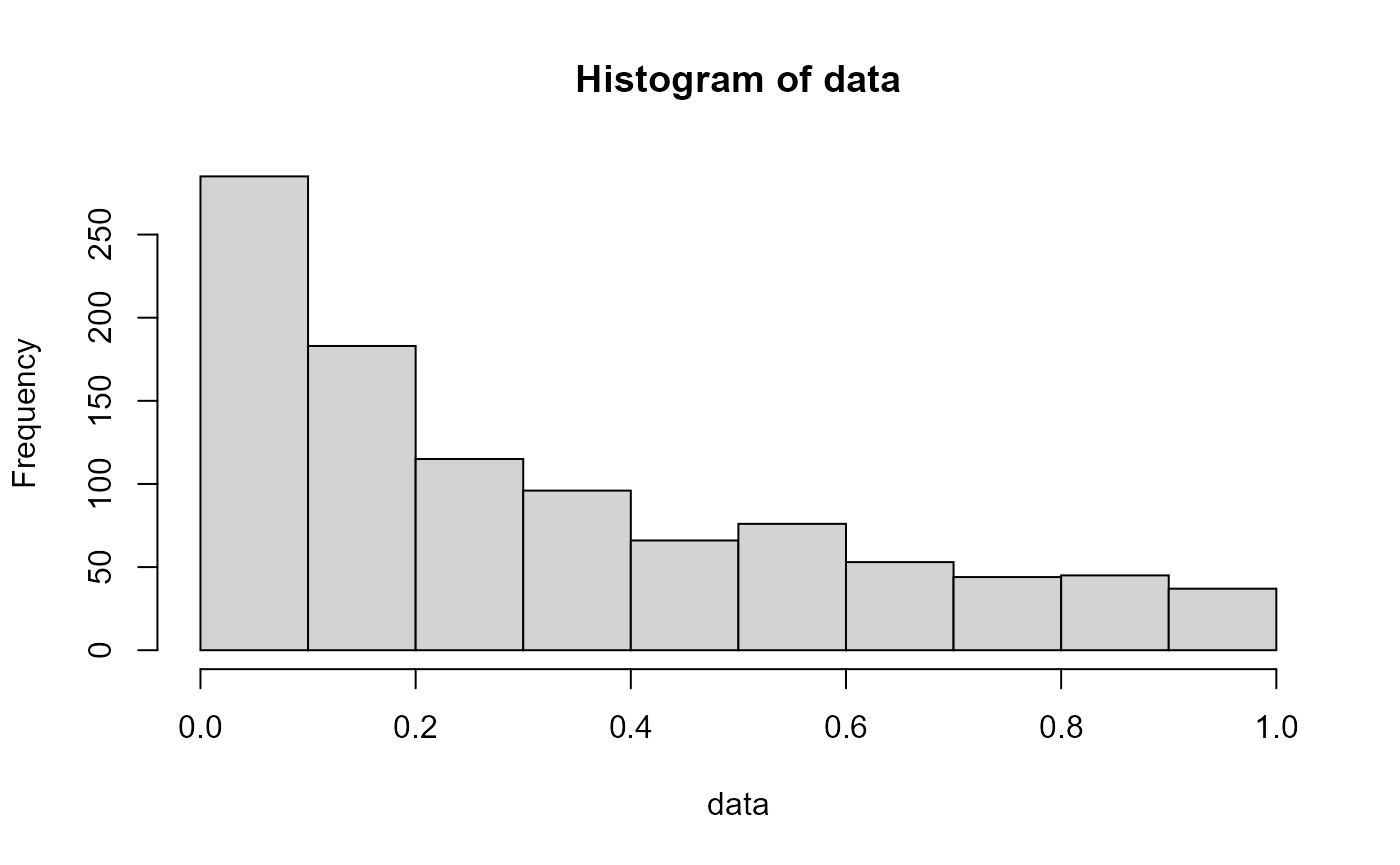
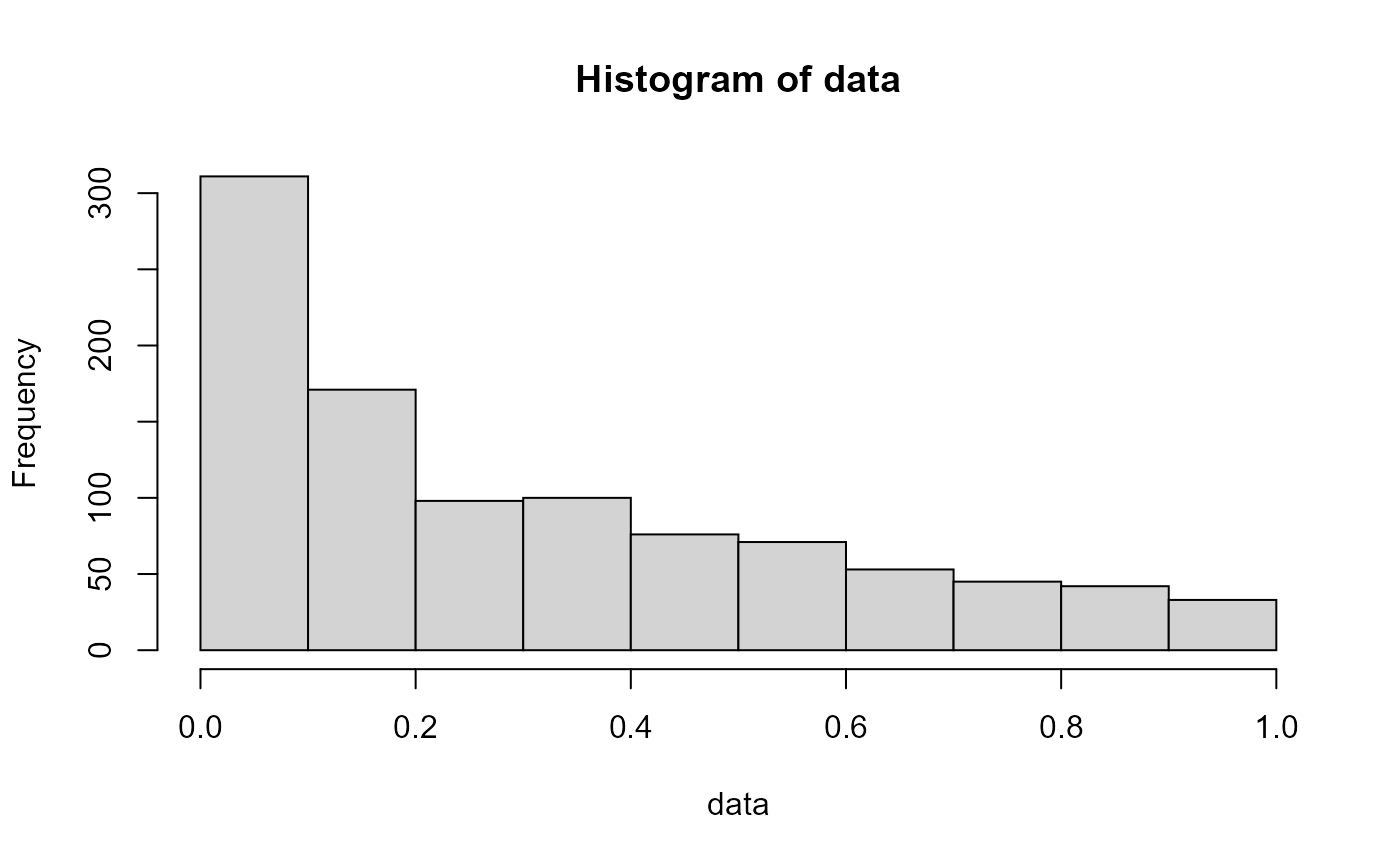
rewrote readme

diff --git a/docs/index.html b/docs/index.html
@@ -86,13 +86,13 @@
 <a href="#bradfordr-" class="anchor" aria-hidden="true"></a>bradfordr <img src="reference/figures/logo.png" align="right" height="138">
 </h1></div>
 
-<p>The goal of bradfordr is to implement probability functions from the Standardized Bradford Distribution in the same way other distributions are implemented in the <code>{stats}</code> package. Itâs definition and functionality were taken from <a href="https://docs.scipy.org/doc/scipy/reference/generated/scipy.stats.bradford.html" class="external-link">SciPy</a>.</p>
+<p>The goal of bradfordr is to implement probability functions from the Standardized Bradford Distribution in the same way other distributions are implemented in the <code>{stats}</code> package. Its definition and functionality were taken from <a href="https://docs.scipy.org/doc/scipy/reference/generated/scipy.stats.bradford.html" class="external-link">SciPy</a>.</p>
 <div id="definition-of-the-standardized-bradford-distribution" class="section level2">
 <h2 class="hasAnchor">
 <a href="#definition-of-the-standardized-bradford-distribution" class="anchor" aria-hidden="true"></a>Definition of the Standardized Bradford Distribution</h2>
 <p>A continuous random variable follows the Standardized Bradford Distribution if itâs probability density function is given as the following:</p>
 <p><a href="https://www.codecogs.com/eqnedit.php?latex=%5Cbg_white&amp;space;%5Cfn_cm&amp;space;%5CLARGE&amp;space;f(x;c)&amp;space;=&amp;space;%5Cfrac%7Bc%7D%7Blog(1&amp;space;&amp;plus;&amp;space;c)&amp;space;%5Ccdot&amp;space;(1&amp;space;&amp;plus;&amp;space;c&amp;space;%5Ccdot&amp;space;x)%7D" target="_blank" class="external-link"><img src="https://latex.codecogs.com/gif.latex?%5Cbg_white&amp;space;%5Cfn_cm&amp;space;%5CLARGE&amp;space;f(x;c)&amp;space;=&amp;space;%5Cfrac%7Bc%7D%7Blog(1&amp;space;&amp;plus;&amp;space;c)&amp;space;%5Ccdot&amp;space;(1&amp;space;&amp;plus;&amp;space;c&amp;space;%5Ccdot&amp;space;x)%7D" title="\LARGE f(x;c) = \frac{c}{log(1 + c) \cdot (1 + c \cdot x)}"></a></p>
-<p>For 0ââ¤â<em>x</em>ââ¤â1 and <em>c</em>â&gt;â0.</p>
+<p>For 0 &lt;= x &lt;= 1 and c &gt; 0.</p>
 <p>It comes primarily from <a href="https://docs.scipy.org/doc/scipy/reference/generated/scipy.stats.bradford.html" class="external-link">Bradfordâs law of scattering</a>, which states that, if journals in a specific field are sorted into three groups (each with one third of all articles of that field), the number of journals in each group will be proportional to 1â:â<em>n</em>â:â<em>n</em><sup>2</sup>. The Bradford Distribution itself is a special case of the Pareto Distribution, and has some relations with the Exponential Distribution.</p>
 </div>
 <div id="installation" class="section level2">
@@ -116,8 +116,8 @@
 <code class="sourceCode R"><span class="kw"><a href="https://rdrr.io/r/base/library.html" class="external-link">library</a></span><span class="op">(</span><span class="va"><a href="https://github.com/victordogo/bradfordr" class="external-link">bradfordr</a></span><span class="op">)</span>
 
 <span class="fu"><a href="reference/bradford.html">rbradford</a></span><span class="op">(</span>n<span class="op">=</span><span class="fl">10</span><span class="op">)</span>
-<span class="co">#&gt;  [1] 0.17968705 0.43695979 0.42117053 0.07429570 0.12363027 0.12878935</span>
-<span class="co">#&gt;  [7] 0.69705915 0.67894553 0.01527679 0.63221902</span></code></pre></div>
+<span class="co">#&gt;  [1] 0.09326667 0.44317669 0.06576089 0.14751516 0.32830079 0.20542230</span>
+<span class="co">#&gt;  [7] 0.23347059 0.72454287 0.32804309 0.52689899</span></code></pre></div>
 <p>If the value of c is less or equal than 0, the function returns an error (this is true to all functions in this package).</p>
 </div>
 <div id="pbradford" class="section level3">

diff --git a/docs/articles/rng-bradford-dist.html b/docs/articles/rng-bradford-dist.html
@@ -130,7 +130,7 @@ x = F^{-1}(u;c) = \frac{(1+c)^u - 1}{c}
 <span class="va">data</span> <span class="op">&lt;-</span> <span class="fu"><a href="../reference/bradford.html">rbradford</a></span><span class="op">(</span><span class="fl">1000</span>, c<span class="op">=</span><span class="fl">10</span><span class="op">)</span>
 
 <span class="fu"><a href="https://rdrr.io/r/utils/head.html" class="external-link">head</a></span><span class="op">(</span><span class="va">data</span><span class="op">)</span>
-<span class="co">#&gt; [1] 0.03609574 0.64650469 0.78184297 0.38697045 0.71705669 0.17668015</span></code></pre></div>
+<span class="co">#&gt; [1] 0.061005218 0.854443919 0.081661360 0.006282667 0.057842586 0.174454120</span></code></pre></div>
 <p>We can easily plot this data to understand how it behaves:</p>
 <div class="sourceCode" id="cb3"><pre class="downlit sourceCode r">
 <code class="sourceCode R">

diff --git a/README.md b/README.md
@@ -12,7 +12,7 @@ experimental](https://img.shields.io/badge/lifecycle-experimental-orange.svg)](h
 
 The goal of bradfordr is to implement probability functions from the
 Standardized Bradford Distribution in the same way other distributions
-are implemented in the `{stats}` package. It’s definition and
+are implemented in the `{stats}` package. Its definition and
 functionality were taken from
 [SciPy](https://docs.scipy.org/doc/scipy/reference/generated/scipy.stats.bradford.html).
 
@@ -24,7 +24,7 @@ following:
 
 <a href="https://www.codecogs.com/eqnedit.php?latex=\bg_white&space;\fn_cm&space;\LARGE&space;f(x;c)&space;=&space;\frac{c}{log(1&space;&plus;&space;c)&space;\cdot&space;(1&space;&plus;&space;c&space;\cdot&space;x)}" target="_blank"><img src="https://latex.codecogs.com/gif.latex?\bg_white&space;\fn_cm&space;\LARGE&space;f(x;c)&space;=&space;\frac{c}{log(1&space;&plus;&space;c)&space;\cdot&space;(1&space;&plus;&space;c&space;\cdot&space;x)}" title="\LARGE f(x;c) = \frac{c}{log(1 + c) \cdot (1 + c \cdot x)}" /></a>
 
-For 0 ≤ *x* ≤ 1 and *c* &gt; 0.
+For 0 &lt;= x &lt;= 1 and c &gt; 0.
 
 It comes primarily from [Bradford’s law of
 scattering](https://docs.scipy.org/doc/scipy/reference/generated/scipy.stats.bradford.html),
@@ -63,8 +63,8 @@ The standard value for `c` is 5:
 library(bradfordr)
 
 rbradford(n=10)
-#>  [1] 0.17968705 0.43695979 0.42117053 0.07429570 0.12363027 0.12878935
-#>  [7] 0.69705915 0.67894553 0.01527679 0.63221902
+#>  [1] 0.09326667 0.44317669 0.06576089 0.14751516 0.32830079 0.20542230
+#>  [7] 0.23347059 0.72454287 0.32804309 0.52689899
 ```
 
 If the value of c is less or equal than 0, the function returns an error
